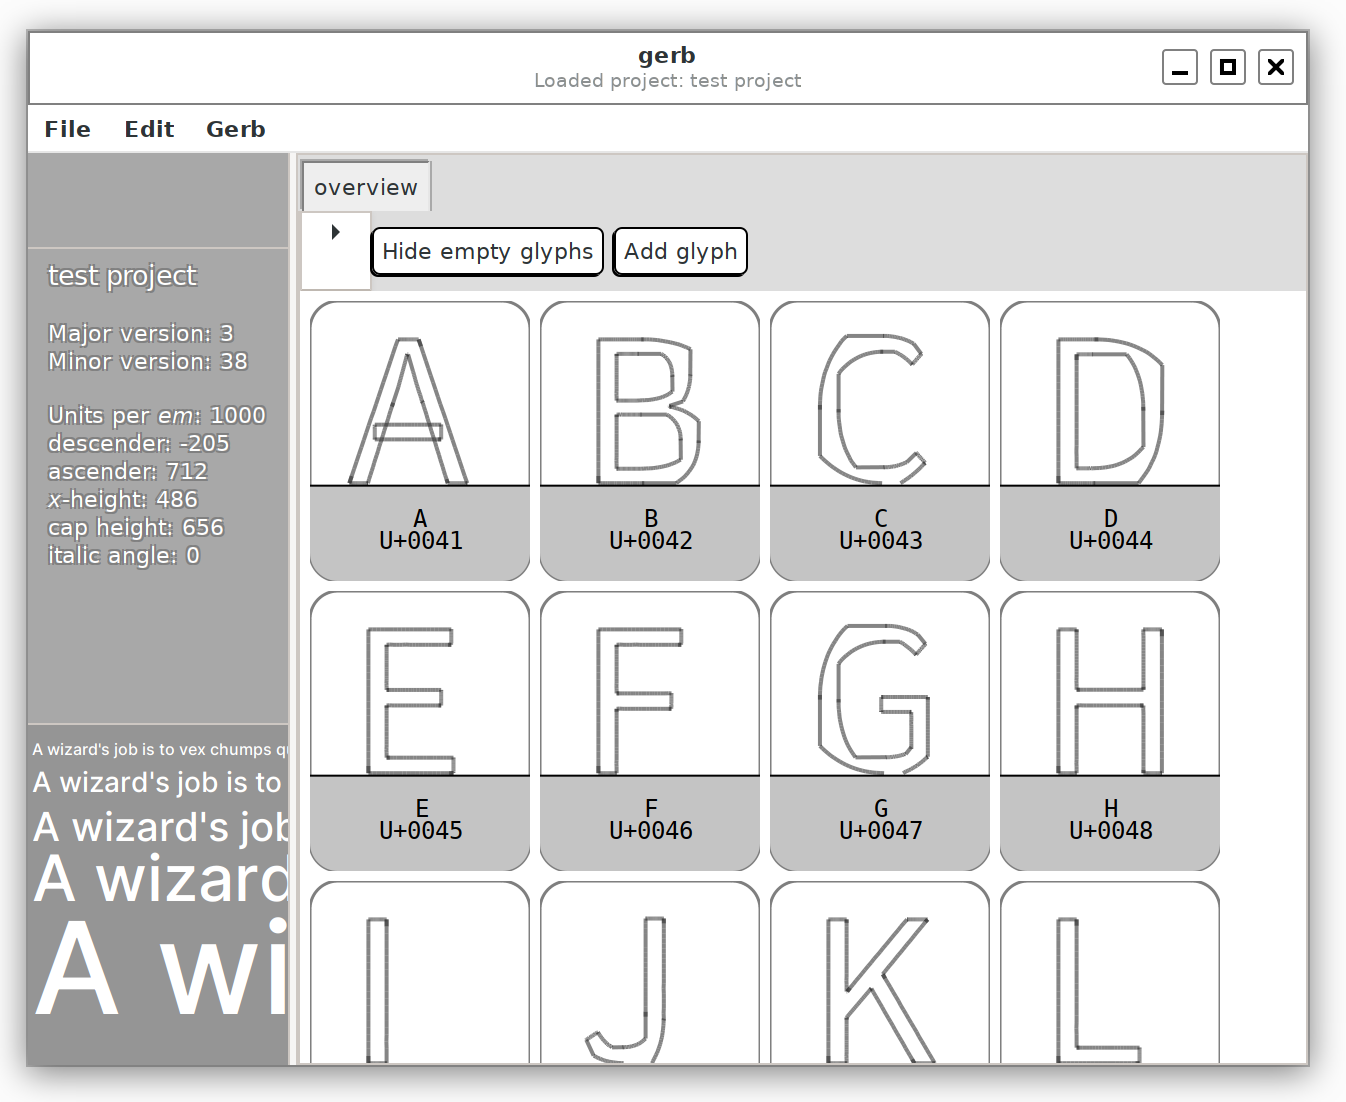
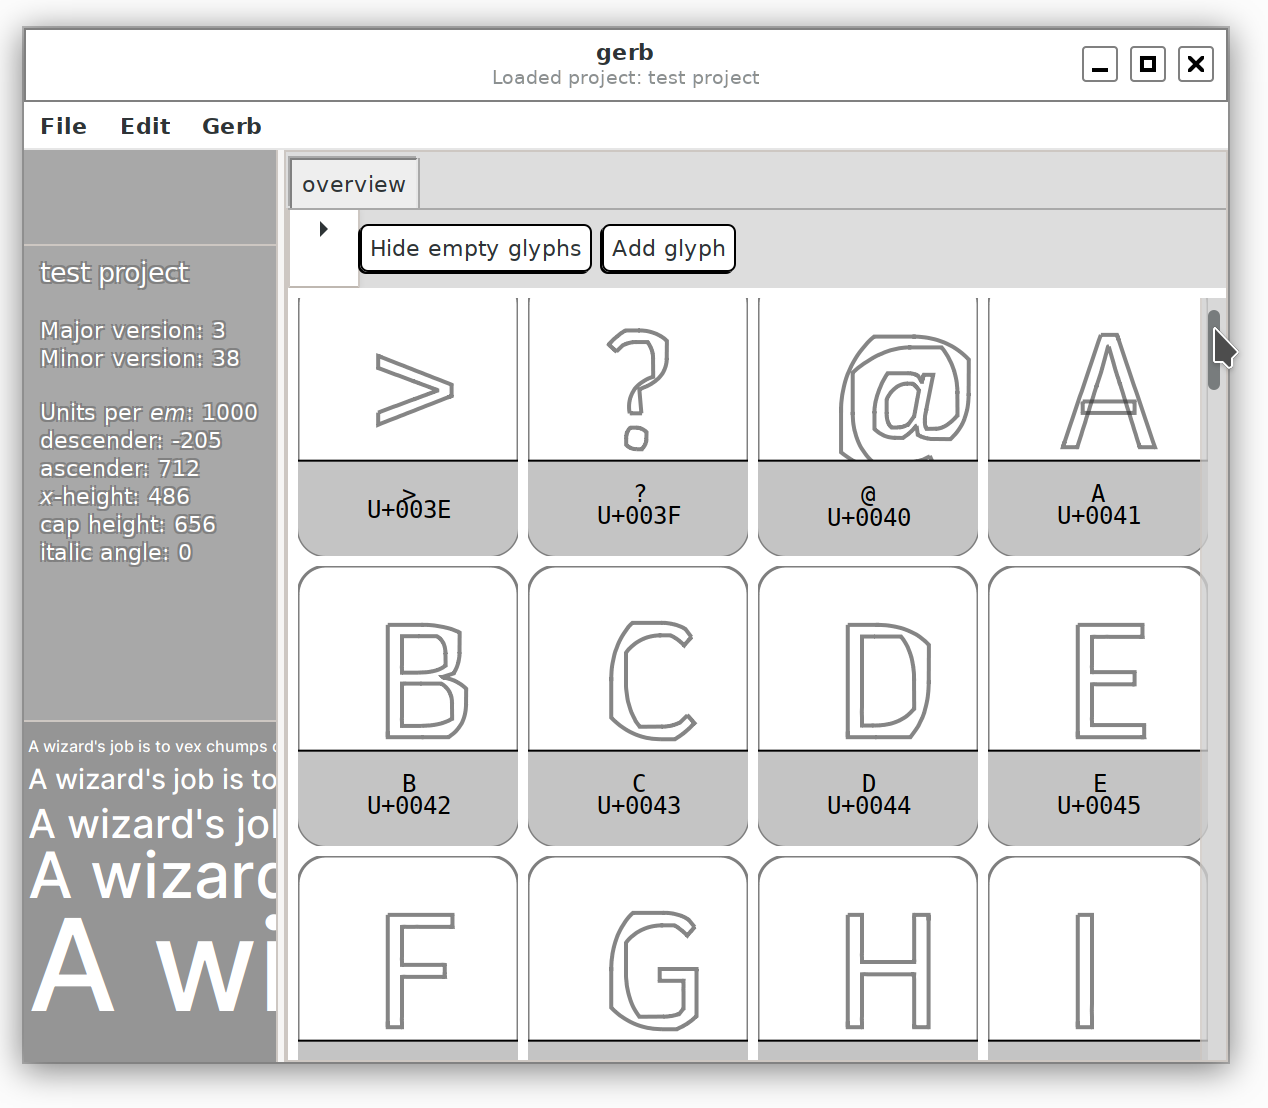
Improve glyph rendering

Changed region(s): [[0.0, 0.0, 0.9842, 0.9873]]

diff --git a/src/views/glyph_edit.rs b/src/views/glyph_edit.rs
@@ -46,6 +46,7 @@ pub struct GlyphEditArea {
     drawing_area: OnceCell<gtk::DrawingArea>,
     overlay: OnceCell<gtk::Overlay>,
     pub toolbar_box: OnceCell<gtk::Box>,
+    points: OnceCell<Arc<Mutex<Vec<(i64, i64)>>>>,
     zoom_percent_label: OnceCell<gtk::Label>,
     camera: Cell<(f64, f64)>,
     mouse: Cell<(f64, f64)>,
@@ -70,6 +71,7 @@ impl ObjectImpl for GlyphEditArea {
         self.camera.set((EM_SQUARE_PIXELS, 100.));
         self.mouse.set((0., 0.));
         self.zoom.set(1.);
+        self.points.set(Arc::new(Mutex::new(vec![]))).unwrap();
 
         let drawing_area = gtk::DrawingArea::builder()
             .expand(true)
@@ -144,6 +146,7 @@ impl ObjectImpl for GlyphEditArea {
                 let p = lck.as_ref().unwrap();
                 (p.units_per_em, p.x_height, p.cap_height, p.ascender, p.descender)
             };
+            let f = EM_SQUARE_PIXELS/units_per_em ;
             let width = drar.allocated_width() as f64;
             let height = drar.allocated_height() as f64;
             cr.set_source_rgb(1., 1., 1.);
@@ -171,36 +174,37 @@ impl ObjectImpl for GlyphEditArea {
                 }
                 cr.stroke().unwrap();
             }
-
             /* Draw em square of 1000 units: */
 
             cr.save().unwrap();
             cr.translate(camera.0, camera.1);
+
             cr.set_source_rgba(210./255., 227./255., 252./255., 0.6);
-            cr.rectangle(0., 0., EM_SQUARE_PIXELS, EM_SQUARE_PIXELS);
+            let glyph_width = f*obj.imp().glyph.get().unwrap().width.unwrap_or(1000) as f64;
+            cr.rectangle(0., 0., glyph_width, EM_SQUARE_PIXELS);
             cr.fill().unwrap();
 
             /* Draw x-height */
-            cr.set_source_rgba(1.0, 0., 0., 0.6);
+            cr.set_source_rgba(0., 0., 1., 0.6);
             cr.set_line_width(2.0);
             cr.move_to(0., x_height*0.2);
-            cr.line_to(EM_SQUARE_PIXELS, x_height*0.2);
+            cr.line_to(glyph_width*1.2, x_height*0.2);
             cr.stroke().unwrap();
-            cr.move_to(EM_SQUARE_PIXELS, x_height*0.2);
+            cr.move_to(glyph_width*1.2, x_height*0.2);
             cr.show_text("x-height").unwrap();
 
             /* Draw baseline */
             cr.move_to(0., units_per_em*0.2);
-            cr.line_to(EM_SQUARE_PIXELS, units_per_em*0.2);
+            cr.line_to(glyph_width*1.2, units_per_em*0.2);
             cr.stroke().unwrap();
-            cr.move_to(EM_SQUARE_PIXELS, units_per_em*0.2);
+            cr.move_to(glyph_width*1.2, units_per_em*0.2);
             cr.show_text("baseline").unwrap();
 
             /* Draw cap height */
-            cr.move_to(0., -cap_height*0.2);
-            cr.line_to(EM_SQUARE_PIXELS, -cap_height*0.2);
+            cr.move_to(0., EM_SQUARE_PIXELS-cap_height*0.2);
+            cr.line_to(glyph_width*1.2, EM_SQUARE_PIXELS-cap_height*0.2);
             cr.stroke().unwrap();
-            cr.move_to(EM_SQUARE_PIXELS, -cap_height*0.2);
+            cr.move_to(glyph_width*1.2, EM_SQUARE_PIXELS-cap_height*0.2);
             cr.show_text("cap height").unwrap();
 
             /* Draw the glyph */
@@ -208,16 +212,16 @@ impl ObjectImpl for GlyphEditArea {
             if let Some(glyph) = obj.imp().glyph.get() {
                 //println!("cairo drawing glyph {}", glyph.name);
                 glyph.draw(drar, cr, (0.0, 0.0), (EM_SQUARE_PIXELS, EM_SQUARE_PIXELS));
-                cr.set_source_rgb(1.0, 0.0, 0.5);
-                cr.set_line_width(1.5);
-                if let Some(width) = glyph.width {
-                    cr.move_to(0., 0.);
-                    cr.line_to(0., EM_SQUARE_PIXELS);
-                    cr.stroke().unwrap();
-                    cr.move_to(width as f64 *0.2, 0.);
-                    cr.line_to(width as f64 *0.2, EM_SQUARE_PIXELS);
+                cr.save().unwrap();
+                cr.set_source_rgba(0.0, 0.0, 1.0, 0.5);
+                for p in obj.imp().points.get().unwrap().lock().unwrap().iter() {
+                    cr.set_line_width(0.5);
+                    //println!("darwing point ({}, {}) at ({}, {})", p.0, p.1, p.0 as f64*f*zoom_factor-50., p.1 as f64 * f*zoom_factor-50.);
+                    cr.rectangle(p.0 as f64* f - 2.5, p.1 as f64* f - 2.5, 5., 5.);
                     cr.stroke().unwrap();
                 }
+                cr.restore().unwrap();
+
                 /*for c in &glyph.curves {
                     for &(x, y) in &c.points {
                         cr.rectangle(x as f64, y as f64, 5., 5.);
@@ -536,6 +540,7 @@ glib::wrapper! {
 impl GlyphEditView {
     pub fn new(app: gtk::Application, project: Arc<Mutex<Option<Project>>>, glyph: Glyph) -> Self {
         let ret: Self = glib::Object::new(&[]).expect("Failed to create Main Window");
+        *ret.imp().points.get().unwrap().lock().unwrap() = glyph.points();
         ret.imp().glyph.set(glyph).unwrap();
         ret.imp().app.set(app).unwrap();
         ret.imp().project.set(project).unwrap();

diff --git a/src/glyphs.rs b/src/glyphs.rs
@@ -258,16 +258,11 @@ impl Glyph {
         if self.is_empty() {
             return;
         }
-        let f = og_width
-            / self
-                .width
-                .map(|w| if w == 0 { 1000 } else { w })
-                .unwrap_or(1000) as f64;
+        let f = og_width / 1000.;
         cr.save().expect("Invalid cairo surface state");
         cr.move_to(x, y);
         cr.set_source_rgba(0.2, 0.2, 0.2, 0.6);
         cr.set_line_width(2.0);
-        cr.translate(0., -20.);
         for contour in self.contours.iter() {
             let mut strokes = vec![];
             let mut pen_position: Option<(f64, f64)> = None;
@@ -341,6 +336,15 @@ impl Glyph {
             }
             GlyphKind::Component => gtk::glib::markup_escape_text(self.name.as_ref()),
         }
+    }
+
+    pub fn points(&self) -> Vec<Point> {
+        self.contours
+            .clone()
+            .into_iter()
+            .map(|v| v.curves.into_iter().map(|b| b.points.into_iter()).flatten())
+            .flatten()
+            .collect::<Vec<Point>>()
     }
 }
 

diff --git a/src/views/glyphs_overview.rs b/src/views/glyphs_overview.rs
@@ -305,11 +305,11 @@ impl ObjectImpl for GlyphBox {
             let sextents = cr
                 .text_extents(&label)
                 .expect("Invalid cairo surface state");
-            cr.move_to(point.0 + width/2. - sextents.width/2., point.1+(height / 3.)+20.);
             if glyph.is_empty() {
+                cr.move_to(point.0 + width/2. - sextents.width/2., point.1+(height / 3.)+20.);
                 cr.show_text(&label).expect("Invalid cairo surface state");
             } else {
-                glyph.draw(_drar, cr, (point.0+width/6., point.1), (width*0.8, height*0.8));
+                glyph.draw(_drar, cr, (point.0+width/3., 0.), (width*0.8, height*0.8));
             }
 
 
